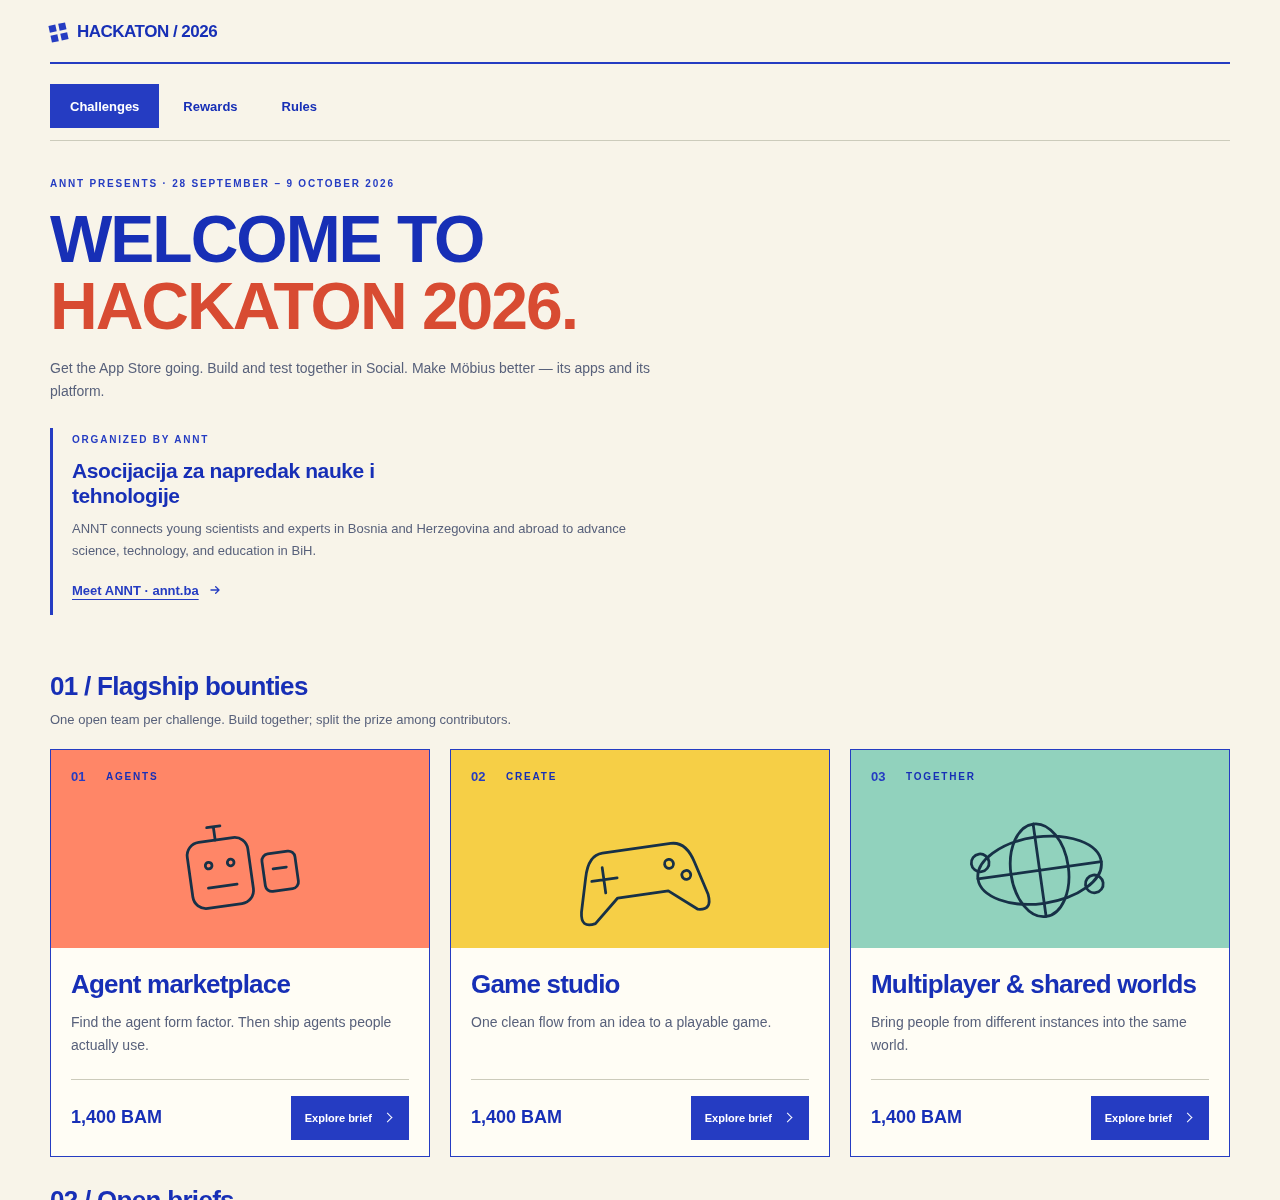
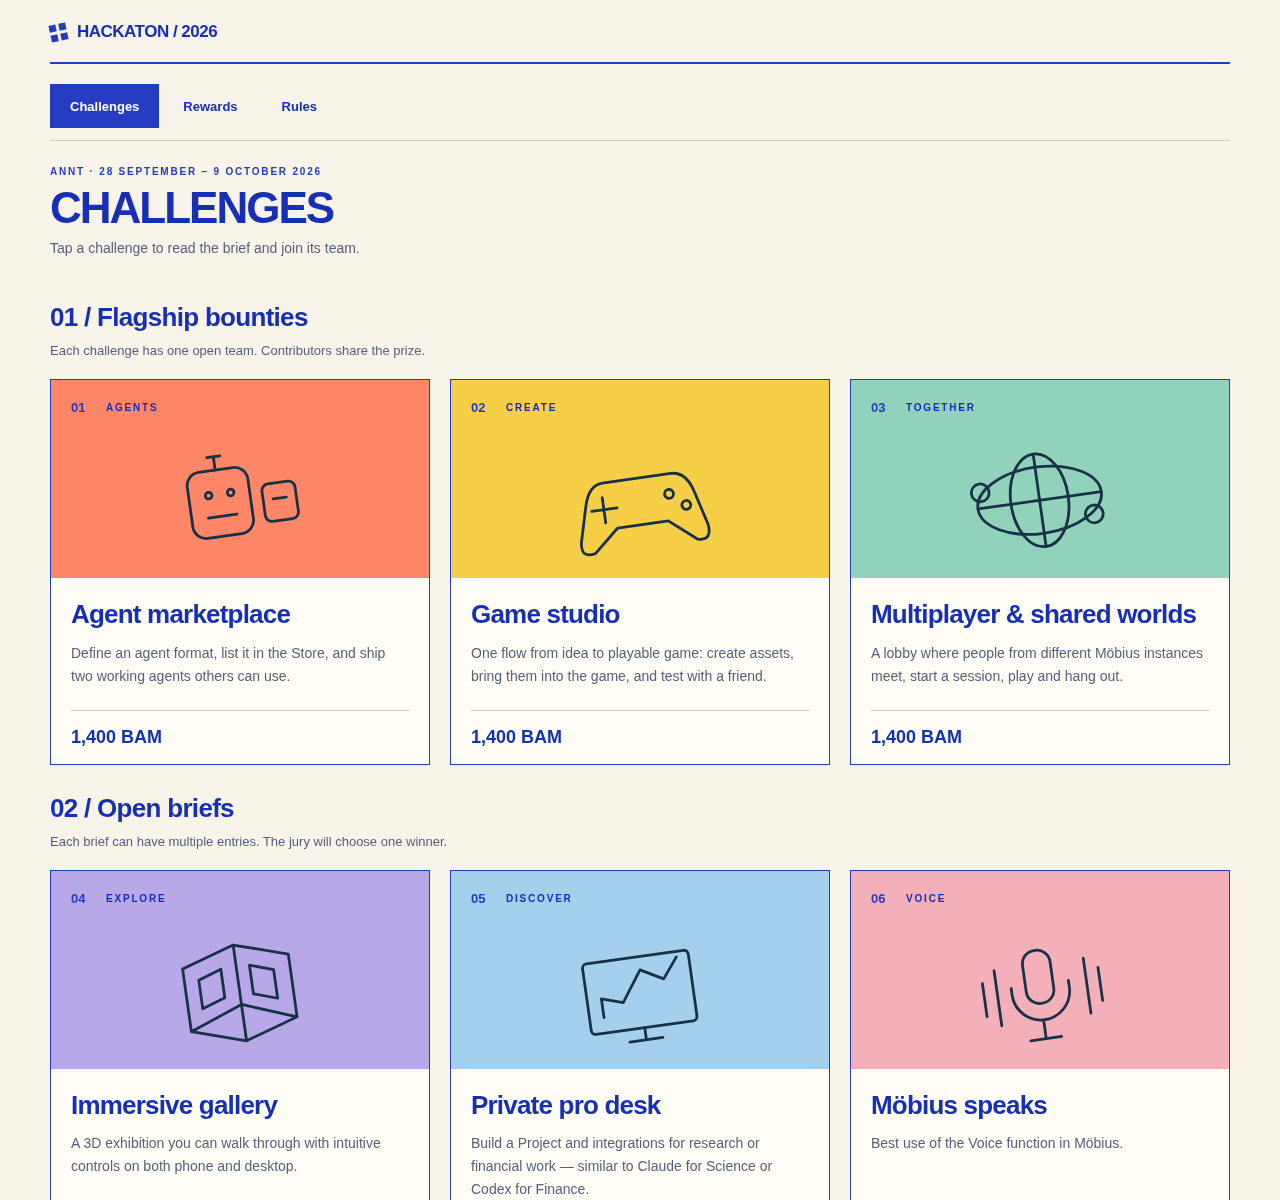
Publish Hackaton 2026 from Möbius
[mobius-store-repository:974160b03d1d78f047f4a8cd1eaf47f5]
[mobius-store-source:1e038fb82794dd728749e33054205a75]

diff --git a/index.jsx b/index.jsx
@@ -34,7 +34,7 @@ export default function App({appId,token}){
  const hostSettings=ctx&&<details className="hk-settings"><summary>Advanced · event server</summary><p>The shared event runs at {ctx.event_host}. Choosing another host opens a separate event, so you will see different comments and participants. Your previous local activity stays at {ctx.host}.</p><form onSubmit={async e=>{e.preventDefault();setError('');try{const value=hostDraft.trim().replace(/^https:\/\//,'').replace(/\/$/,'').toLowerCase();if(!/^[a-z0-9][a-z0-9.-]+\.[a-z]{2,}$/.test(value))throw Error('Enter a hostname such as event.example.com, without a path.');await connectHost(value)}catch(e){fail(e)}}}><input aria-label="Organizer hostname" value={hostDraft} onChange={e=>setHostDraft(e.target.value)}/><button disabled={busy}>Connect</button></form></details>;
  function renderCard(c){return <button type="button" className={"hk-card hk-card-link"+(c.joined?" hk-card-joined":"")} data-challenge={c.id} style={c.color?{'--cover':c.color}:undefined} key={host+c.id} onClick={()=>openChallenge(c.id)} aria-label={`Open ${c.title}`}><span className="hk-card-top"><span className="hk-eyebrow">{c.tag}</span><span className="hk-number">{c.number||c.id}</span>{c.joined&&<span className="hk-joined-label">Joined</span>}</span><ChallengeArt id={c.id}/><span className="hk-card-title">{c.title}</span><span className="hk-card-desc">{c.description}</span><span className="hk-card-footer"><span className="hk-card-meta">{c.prize?<strong>{c.prize.toLocaleString('en-GB')} BAM</strong>:c.award&&<strong>{c.award}</strong>}<span>{c.count} joined</span></span></span></button>}
  return <div className={"hk"+(rules?" hk-rules-page":"")}><style>{CSS}</style><header><span className="hk-brand"><span className="hk-brand-mark" aria-hidden="true"><i/><i/><i/><i/></span>HACKATON / 2026</span><span className="hk-tag">{ctx?.identity.handle||'Möbius community'}</span></header><main>{state?.accepted&&<nav className="hk-seg" aria-label="Event pages">{["challenges","rewards","rules"].map(tab=><button key={tab} aria-current={(rules?'rules':page)===tab?"page":undefined} onClick={()=>{closeChallenge();setRules(tab==='rules');setPage(tab==='rules'?'challenges':tab)}}>{tab==='rules'?'Rules':tab==='rewards'?'Rewards':'Challenges'}</button>)}</nav>}{ctx&&host&&host!==ctx.event_host&&<div className='hk-event-host hk-other-event'><div><strong>Separate event selected</strong><span>{host}</span><p>This is a separate event with its own comments and participants. Switching will not delete them.</p></div><button disabled={busy} onClick={()=>connectHost(ctx.event_host)}>Use shared event</button></div>}{syncError&&<div className="hk-error" role="status">Could not update the event. Counts may be out of date. {syncError} <button onClick={()=>refresh().catch(e=>setSyncError(e.message))}>Retry</button></div>}{error&&<div className="hk-error" role="alert">{error} <button onClick={()=>ctx?refresh().catch(fail):location.reload()}>Retry</button></div>}
- {state&&!state.accepted?<Welcome busy={busy} joined={state.joined} onJoin={joinEvent}/>:page==='rewards'?<Rewards/>:selected&&state?.cards?.find(c=>c.id===selected)?<Challenge key={host+selected} card={state.cards.find(c=>c.id===selected)} command={command} refresh={refresh} onBack={closeChallenge}/>:!state?<section className="hk-hero"><div className="hk-eyebrow">Hackaton 2026</div><h1>Hackaton <em>2026.</em></h1><p>{error?'Connect your Möbius account to enter the event.':'Connecting to your Möbius account…'}</p></section>:rules?<EventRules rules={programme.rules} onBack={()=>setRules(false)}>{hostSettings}</EventRules>:<><BoardIntro/>{[['flagship','01 / Flagship bounties','Each challenge has one open team. Contributors share the prize.'],['open','02 / Open briefs','Each brief can have multiple entries. The jury will choose one winner.'],['community','03 / Bug reports & fixes','Share bugs you find in Möbius and the fixes you make.']].map(([kind,title,desc])=><section className="hk-brief-group" key={kind}><div className="hk-group-heading"><h2>{title}</h2><p>{desc}</p></div><div className="hk-grid">{state.cards.filter(c=>c.kind===kind).map(renderCard)}</div></section>)}</>}
+ {state&&!state.accepted?<Welcome busy={busy} joined={state.joined} onJoin={joinEvent}/>:page==='rewards'?<Rewards/>:selected&&state?.cards?.find(c=>c.id===selected)?<Challenge key={host+selected} card={state.cards.find(c=>c.id===selected)} command={command} refresh={refresh} onBack={closeChallenge}/>:!state?<section className="hk-hero"><div className="hk-eyebrow">Hackaton 2026</div><h1>Hackaton <em>2026.</em></h1><p>{error?'Connect your Möbius account to enter the event.':'Connecting to your Möbius account…'}</p></section>:rules?<EventRules rules={programme.rules} onBack={()=>setRules(false)}>{hostSettings}</EventRules>:<><BoardIntro/>{[['flagship','01 / Flagship bounties','Each challenge has one open team. Contributors share the prize.'],['open','02 / Open briefs','Each brief can have multiple entries. The jury will choose one winner.'],['community','03 / Bug reports & fixes','Share bugs you find in Möbius and the fixes you make.'],['award','04 / Event awards','Share your apps, games and community highlights. Winners are chosen at the end.']].map(([kind,title,desc])=><section className="hk-brief-group" key={kind}><div className="hk-group-heading"><h2>{title}</h2><p>{desc}</p></div><div className="hk-grid">{state.cards.filter(c=>c.kind===kind).map(renderCard)}</div></section>)}</>}
 
 <footer className="hk-footer"><span>Organized by ANNT · 28 September – 9 October 2026</span></footer></main></div>
 }

diff --git a/Rewards.jsx b/Rewards.jsx
@@ -1,5 +1,7 @@
 import React from 'react';
-const categories=[['Top apps','Awards for the three best apps.','#ff8464'],['Top games','Awards for the three best games.','#f5cc45']];
+import programme from './programme.json';
+const categories=programme.cards.filter(c=>['top-apps','top-games'].includes(c.id));
+const extras=programme.extraAwards.map(a=>({...programme.cards.find(c=>c.id===a.id),...a}));
 function Podium({id}){return <svg className="hk-reward-stage" viewBox="0 0 460 250" role="img" aria-label="Three mystery winners. Second place left, first place center, third place right.">
  <defs><linearGradient id={`stone-${id}`} x2="0" y2="1"><stop stopColor="#d1d4d9"/><stop offset="1" stopColor="#ecece9"/></linearGradient><linearGradient id={`pal-${id}`} x2="1" y2="1"><stop stopColor="#afb4bf"/><stop offset="1" stopColor="#7b8493"/></linearGradient><linearGradient id={`mist-${id}`} x2="0" y2="1"><stop stopColor="#faf9f5" stopOpacity="0"/><stop offset=".7" stopColor="#faf9f5" stopOpacity=".78"/><stop offset="1" stopColor="#faf9f5"/></linearGradient></defs>
  <ellipse cx="230" cy="223" rx="179" ry="15" fill="#b8bbc3" opacity=".13"/>
@@ -15,4 +17,4 @@ function Podium({id}){return <svg className="hk-reward-stage" viewBox="0 0 460 2
  <path d="M37 194Q116 159 206 190T424 185V246H37Z" fill={`url(#mist-${id})`}/>
  <path d="M40 220Q113 195 201 216T423 207" fill="none" stroke="#fff" strokeWidth="11" opacity=".4"/>
  </svg>}
-export default function Rewards(){return <section className="hk-rewards" aria-labelledby="hk-rewards-title"><div className="hk-rewards-intro"><div><div className="hk-eyebrow">Hackaton awards</div><h1 id="hk-rewards-title">Rewards<em>.</em></h1><p>The jury will choose the winners after the competition. Until then, these spots are waiting for their names.</p></div><aside><strong>Results</strong>Winners will be announced at the end of the competition.</aside></div><div className="hk-reward-grid">{categories.map(([name,desc,color],i)=><section className="hk-reward" key={name} style={{'--category':color}} aria-labelledby={`hk-reward-${i}`}><header><span className="hk-reward-number">0{i+1}</span><div><h2 id={`hk-reward-${i}`}>{name}</h2><p>{desc}</p></div><span className="hk-reward-top">TOP 3</span></header><div className="hk-reward-scene"><Podium id={i}/><div className="hk-reward-places" aria-hidden="true"><span>2nd place<strong>300 BAM</strong></span><span>1st place<strong>500 BAM</strong></span><span>3rd place<strong>200 BAM</strong></span></div></div><footer><span>REVEAL PENDING</span><h3>To Be Announced</h3><p>At the end of the competition.</p></footer></section>)}</div><div className="hk-extra-awards"><section className="hk-award-panel"><div className="hk-eyebrow">Platform pool</div><h2>1,200 BAM</h2><p>For fixes and improvements merged into Möbius. At the end, we will review all contributions together and decide how the pool is shared.</p><strong>To Be Announced</strong></section><section className="hk-award-panel"><div className="hk-eyebrow">Community MVP</div><h2>500 BAM</h2><p>For the person who helped others most by testing projects, giving feedback, and helping people get started.</p><strong>To Be Announced</strong></section><section className="hk-award-panel"><div className="hk-eyebrow">Best meme</div><h2>Street cred.</h2><p>No cash for this one, just bragging rights. :D</p><strong>To Be Announced</strong></section></div><p className="hk-award-note">The platform pool and Community MVP do not count toward the prize cap.</p></section>}
+export default function Rewards(){return <section className="hk-rewards" aria-labelledby="hk-rewards-title"><div className="hk-rewards-intro"><div><div className="hk-eyebrow">Hackaton awards</div><h1 id="hk-rewards-title">Rewards<em>.</em></h1><p>The jury will choose the winners after the competition. Until then, these spots are waiting for their names.</p></div><aside><strong>Results</strong>Winners will be announced at the end of the competition.</aside></div><div className="hk-reward-grid">{categories.map(({title:name,description:desc,color,amounts},i)=><section className="hk-reward" key={name} style={{'--category':color}} aria-labelledby={`hk-reward-${i}`}><header><span className="hk-reward-number">0{i+1}</span><div><h2 id={`hk-reward-${i}`}>{name}</h2><p>{desc}</p></div><span className="hk-reward-top">TOP 3</span></header><div className="hk-reward-scene"><Podium id={i}/><div className="hk-reward-places" aria-hidden="true"><span>2nd place<strong>{amounts[1]} BAM</strong></span><span>1st place<strong>{amounts[0]} BAM</strong></span><span>3rd place<strong>{amounts[2]} BAM</strong></span></div></div><footer><span>REVEAL PENDING</span><h3>To Be Announced</h3><p>At the end of the competition.</p></footer></section>)}</div><div className="hk-extra-awards">{extras.map(a=><section className="hk-award-panel" key={a.id}><div className="hk-eyebrow">{a.title}</div><h2>{a.award}</h2><p>{a.description}</p><strong>To Be Announced</strong></section>)}</div><p className="hk-award-note">The platform pool and Community MVP do not count toward the prize cap.</p></section>}

diff --git a/Challenge.jsx b/Challenge.jsx
@@ -63,7 +63,7 @@ export default function Challenge({card,command,refresh,onBack}){
  <button className="hk-back" onClick={onBack}><ArrowLeft width={20} height={20} aria-hidden="true"/>Back to challenges</button>
  <div className="hk-community-title" data-challenge={card.id} style={card.color?{'--cover':card.color}:undefined}><div className="hk-community-copy"><div className="hk-challenge-label"><span className="hk-community-icon" aria-hidden="true">{card.number||card.id}</span><span className="hk-eyebrow">{card.tag}</span>{card.joined&&<span className="hk-joined-label">Joined</span>}</div><h1>{card.title}</h1><div className={"hk-about-stat"+(joinedNow?" hk-joined-now":"")}><span className="hk-members-sky" aria-hidden="true"><i/><i/><i/></span><span>{detail?.members.length??card.count} participants</span></div></div><ChallengeArt id={card.id}/></div>
  {error&&<div className="hk-error" role="alert">{error}</div>}{syncError&&<div className="hk-error" role="status">{syncError}</div>}
- <details className="hk-brief" open={briefOpen} onToggle={e=>setBriefOpen(e.currentTarget.open)}><summary>Read brief<span className="hk-muted">{card.kind==='flagship'?'Flagship bounty':card.kind==='community'?'Community board':'Open brief'}</span></summary><p>{card.description}</p>{card.deliverables&&<ul className="hk-deliverables">{card.deliverables.map(item=><li key={item}>{item}</li>)}</ul>}{(card.prize||card.award)&&<div className="hk-brief-prize"><strong>{card.prize?card.prize.toLocaleString('en-GB')+' BAM':card.award}</strong><p>{card.format}</p></div>}{card.risk&&<p className="hk-risk"><strong>Technical note:</strong> {card.risk}</p>}</details>
+ <details className="hk-brief" open={briefOpen} onToggle={e=>setBriefOpen(e.currentTarget.open)}><summary>Read brief<span className="hk-muted">{card.kind==='flagship'?'Flagship bounty':card.kind==='community'?'Community board':card.kind==='award'?'Event award':'Open brief'}</span></summary><p>{card.description}</p>{card.deliverables&&<ul className="hk-deliverables">{card.deliverables.map(item=><li key={item}>{item}</li>)}</ul>}{(card.prize||card.award)&&<div className="hk-brief-prize"><strong>{card.prize?card.prize.toLocaleString('en-GB')+' BAM':card.award}</strong><p>{card.format}</p></div>}{card.risk&&<p className="hk-risk"><strong>Technical note:</strong> {card.risk}</p>}</details>
  {card.joined&&detail&&<details className="hk-participants"><summary>Participants<span className="hk-muted">{detail.members.length}</span></summary><div className="hk-members">{detail.members.map(m=><span className="hk-member" key={m}>{m}</span>)}</div><p className="hk-muted">Updates are visible to challenge members.</p></details>}
  <div className="hk-discussion-layout"><div className="hk-feed">
  <div className="hk-feed-toolbar"><strong>Updates</strong><span className="hk-muted">Newest first</span>{card.joined&&<button className={'hk-refresh'+(loading?' hk-refreshing':'')} disabled={busy||loading>0} aria-label={loading?'Refreshing updates':'Refresh updates'} aria-busy={loading>0} title={loading?'Refreshing updates':'Refresh updates'} onClick={async()=>{setError('');setRefreshNotice('');try{await load();setRefreshNotice('Updates refreshed.')}catch(e){setError(e.message)}}}><Reload width={21} height={21} aria-hidden="true"/></button>}<span className="hk-sr-only" role="status">{loading?'Refreshing updates…':refreshNotice}</span></div>

diff --git a/ChallengeArt.jsx b/ChallengeArt.jsx
@@ -1,3 +1,8 @@
 import React from 'react';
 const art={"agent-marketplace":<><rect x="25" y="20" width="55" height="60" rx="12"/><circle cx="43" cy="42" r="3"/><circle cx="63" cy="42" r="3"/><path d="M40 62h26M52 20V8m-6 0h12"/><rect x="91" y="39" width="30" height="34" rx="6"/><path d="M100 53h12"/></>,"game-studio":<><path d="M39 30h62q14 0 19 20l8 30q2 15-11 12L93 72H47L24 92Q10 95 13 80l8-30q5-20 18-20Z"/><path d="M37 43v23M26 54h23"/><circle cx="97" cy="48" r="4"/><circle cx="111" cy="60" r="4"/></>,"shared-worlds":<><ellipse cx="70" cy="50" rx="56" ry="30"/><ellipse cx="70" cy="50" rx="26" ry="42"/><path d="M14 50h112M70 8v84"/><circle cx="18" cy="36" r="8"/><circle cx="117" cy="69" r="8"/></>,"immersive-gallery":<><path d="M22 80V23l48-15 48 15v57L70 95Z M70 8v87M22 80l48-18 48 18"/><path d="M35 35l21-7v26l-21 7Z m47-7 21 7v26l-21-7Z"/></>,"private-pro-desk":<><rect x="22" y="19" width="96" height="64" rx="4"/><path d="M35 69V52l19 6 19-27 20 11 14-18M55 94h30M70 83v11"/></>,"bug-reports":<><rect x="45" y="30" width="50" height="66" rx="25"/><path d="M54 30a16 16 0 0 1 32 0M70 40v50M45 50H29m16 16H27m18 16H29M95 50h16m-16 16h18m-18 16h16M62 16l-7-11m23 11 7-11"/></>,"mobius-speaks":<><rect x="58" y="13" width="25" height="48" rx="12"/><path d="M45 44v6a26 26 0 0 0 52 0v-6M70 77v15M56 93h28M20 36v30m12-40v50M113 26v50m12-40v30"/></>};
+art['top-apps']=<><rect x="27" y="12" width="86" height="82" rx="12"/><path d="M27 31h86"/><rect x="41" y="43" width="20" height="18" rx="3"/><rect x="79" y="43" width="20" height="18" rx="3"/><path d="M42 77h56"/></>;
+art['top-games']=art['game-studio'];
+art['community-mvp']=<><circle cx="70" cy="38" r="17"/><circle cx="29" cy="48" r="11"/><circle cx="111" cy="48" r="11"/><path d="M40 94V80a30 30 0 0 1 60 0v14M10 91V77a19 19 0 0 1 30-15M130 91V77a19 19 0 0 0-30-15M58 13l-7-9m19 5V1m12 12 7-9"/></>;
+art['discretionary']=<><path d="m70 9 15 28 31 5-22 23 5 31-29-14-29 14 5-31-22-23 31-5Z"/><path d="M15 14v14M8 21h14M120 76v14m-7-7h14"/></>;
+art['best-meme']=<><rect x="23" y="14" width="94" height="77" rx="16"/><path d="m39 41 9-5 9 5m26 0 9-5 9 5M43 57q27 43 54 0Z"/></>;
 export default function ChallengeArt({id}){return art[id]?<svg className="hk-art" viewBox="0 0 340 128" aria-hidden="true"><g transform="translate(100 10)"><svg width="140" height="108" viewBox="0 0 140 105" fill="none" stroke="#173147" strokeWidth="2.5" strokeLinecap="round" strokeLinejoin="round"><g className="hk-art-tilt">{art[id]}</g></svg></g></svg>:null}

diff --git a/test_hackaton.py b/test_hackaton.py
@@ -6,6 +6,22 @@ import service
 from domain import Problem,connect,run
 from PIL import Image
 class HackatonTests(unittest.TestCase):
+ def test_final_programme_and_award_boards(self):
+  from domain import PROGRAMME, CARDS
+  by_id={c['id']:c for c in CARDS}
+  self.assertEqual(len(by_id),12)
+  self.assertEqual(sum(c.get('prize',0) for c in CARDS)+sum(sum(c.get('amounts',[])) for c in CARDS)+1000,10000)
+  self.assertEqual(by_id['bug-reports']['award'],'1,000 BAM platform pool')
+  self.assertEqual(by_id['community-mvp']['amounts'],[300])
+  self.assertEqual(by_id['discretionary']['amounts'],[400])
+  self.assertEqual(by_id['best-meme']['amounts'],[])
+  self.assertNotIn('1,200',json.dumps(PROGRAMME))
+  self.execute('@award-tester','join');self.execute('@award-tester','accept')
+  for id in ['top-apps','top-games','community-mvp','discretionary','best-meme']:
+   self.assertFalse(next(c for c in self.execute('@award-tester','state')['cards'] if c['id']==id)['joined'])
+   self.execute('@award-tester','join_card',{'card':id})
+   self.execute('@award-tester','comment',{'card':id,'text':'Award discussion'})
+   self.assertEqual(len(self.execute('@award-tester','detail',{'card':id})['posts']),1)
  def setUp(self):
   service.DB_PATH=Path(ROOT.name)/(secrets.token_hex(8)+'.sqlite3')
  def execute(self,actor,action,b=None,rid=None):return service.execute(action,b or {},actor,False,rid or secrets.token_hex(16))
@@ -16,19 +32,19 @@ class HackatonTests(unittest.TestCase):
   with self.assertRaises(Problem):self.execute('@a','detail',{'card':'agent-marketplace'})
   self.execute('@a','join');self.assertEqual(self.execute('@a','state')['cards'],[])
   with self.assertRaises(Problem):self.execute('@a','join_card',{'card':'agent-marketplace'})
-  self.execute('@a','accept');self.assertEqual(len(self.execute('@a','state')['cards']),7)
+  self.execute('@a','accept');self.assertEqual(len(self.execute('@a','state')['cards']),12)
   self.execute('@a','join_card',{'card':'agent-marketplace'});self.assertTrue(self.execute('@a','state')['cards'][0]['joined'])
  def test_real_programme_has_no_sample_aliases(self):
   self.execute('@a','join');self.execute('@a','accept')
   cards=self.execute('@a','state')['cards']
-  self.assertEqual([c['kind'] for c in cards],['flagship']*3+['open']*3+['community'])
-  self.assertEqual([c.get('prize') for c in cards],[1400]*3+[700]*3+[None])
-  self.assertEqual(len({c['id'] for c in cards}),7)
+  self.assertEqual([c['kind'] for c in cards],['flagship']*3+['open']*3+['community']+['award']*5)
+  self.assertEqual([c.get('prize') for c in cards],[1400]*3+[700]*3+[None]*6)
+  self.assertEqual(len({c['id'] for c in cards}),12)
   for old in ['01','02','03']:
    with self.assertRaises(Problem) as caught:self.execute('@a','join_card',{'card':old})
    self.assertEqual(caught.exception.status,404)
   for c in cards:
-   self.assertTrue(c['deliverables']);self.assertFalse(c['joined']);self.assertEqual(c['count'],0)
+   self.assertTrue(c['description']);self.assertTrue(c.get('deliverables') or c['kind']=='award');self.assertFalse(c['joined']);self.assertEqual(c['count'],0)
   self.assertTrue(self.execute('@a','state')['joined'])
  def test_shared_participants_images_links_and_isolation(self):
   self.joined('@alice');self.joined('@bob')

diff --git a/README.md b/README.md
@@ -15,8 +15,8 @@ Private pro desk, and Möbius speaks. The first three are flagship bounties
 by both the service and the UI. Organizer description source:
 https://annt.ba/o-nama/ . The welcome links to https://annt.ba/ .
 
-Rewards show mystery top-three podiums for apps and games, plus the platform
-pool, Community MVP, and best meme. No overall prize total or estimated
+Rewards show mystery top-three podiums for apps and games, plus the
+1,000 BAM platform pool, 300 BAM Community MVP, 400 BAM discretionary allocation, and best meme (street cred). Award discussion cards cover Top apps, Top games, Community MVP, Discretionary and Best meme. No overall prize total or estimated
 participant count is displayed. Actual per-challenge membership counts remain.
 Jury decisions, scoring and payouts are not automated. Joining a challenge is
 participation, not a project submission or a prize award. Jury names, exact
